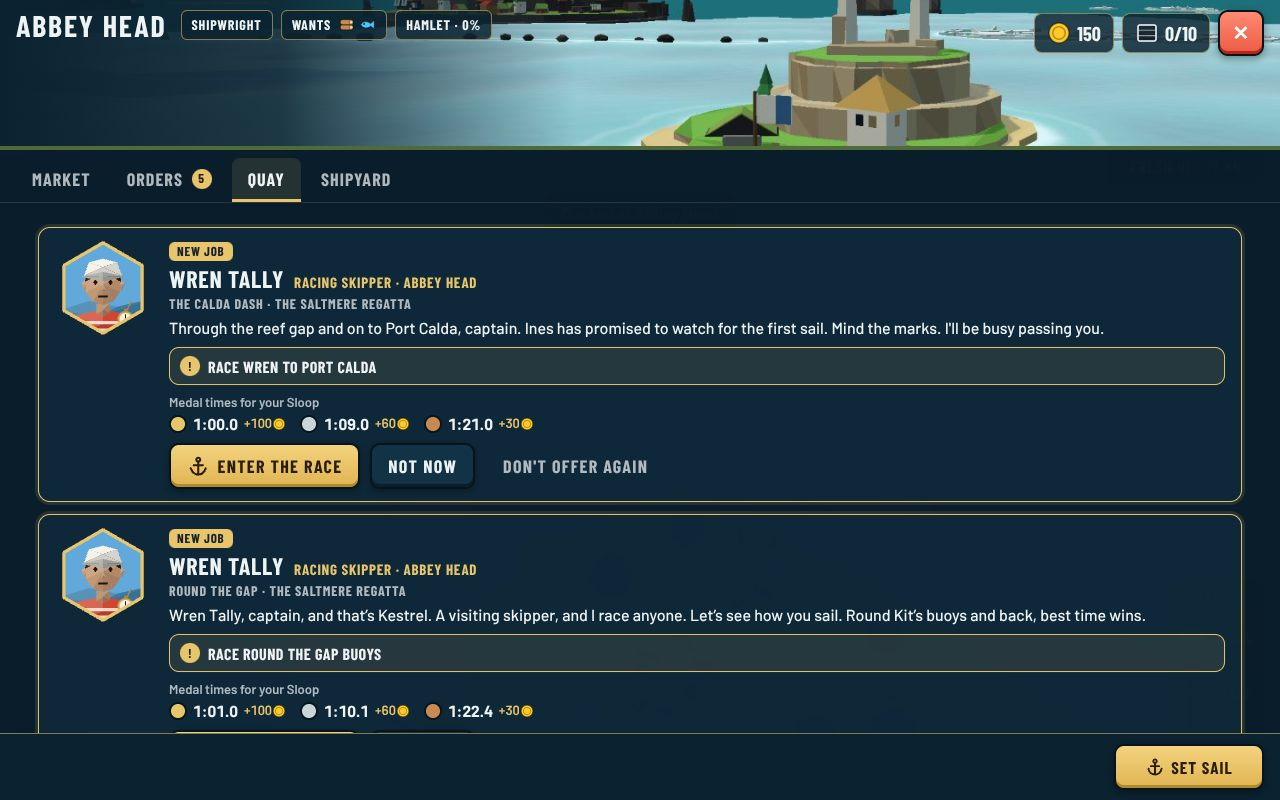
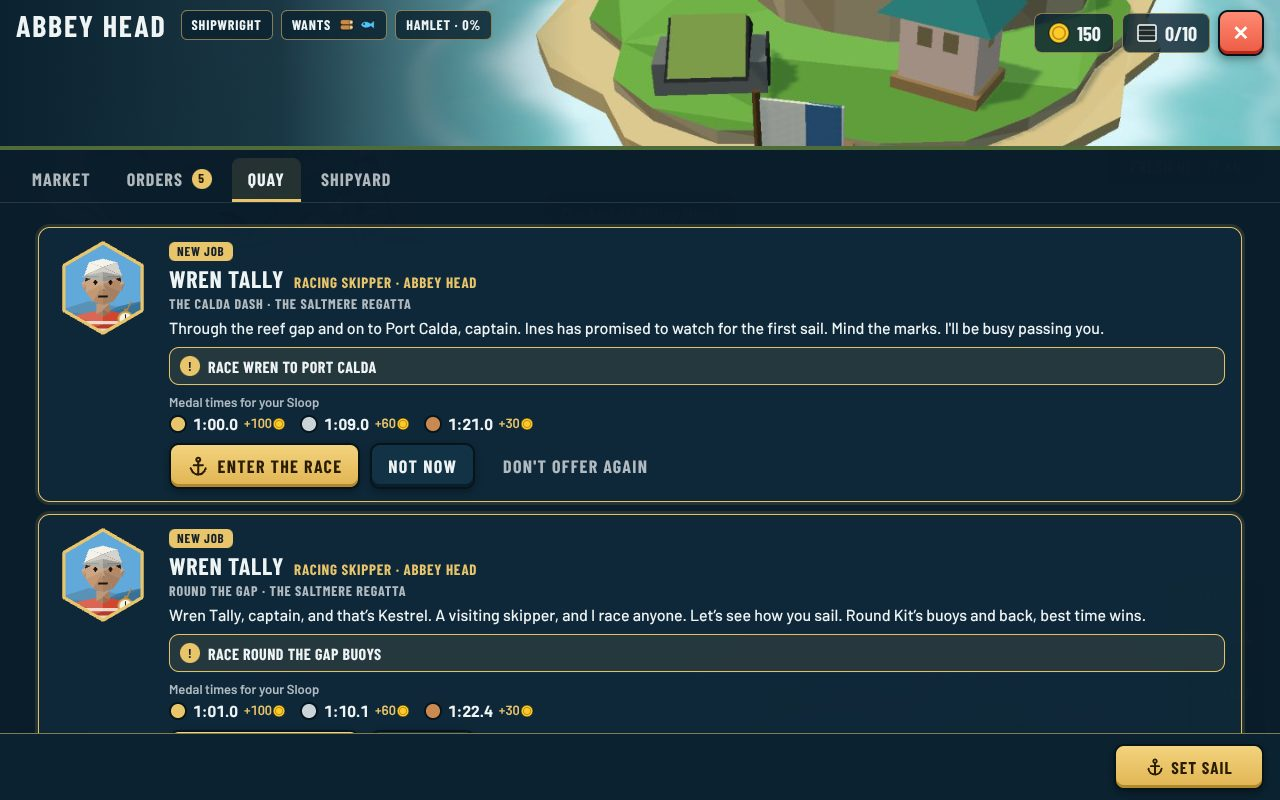
Aim Abbey Head's header at the club, turquoise café, new shots (#312)
Claude-Session: https://claude.ai/code/session_013jvdBu9jva21378Cw1Fffw

Changed region(s): [[0.25, 0.0, 1.0, 0.1875]]

diff --git a/tests/island-files.test.ts b/tests/island-files.test.ts
@@ -130,7 +130,7 @@ const GOLDEN: Record<string, string[]> = {
   saltmere: ['305:845e93d7', '504:fd0b5a46', '732:81a5bb40', '911:998fb521'],
   'south-cay': ['211:7e88ade9', '321:5698534c', '512:8751e27e', '688:65031d05'],
   westholm: ['216:10f65f4e', '436:3820301b', '727:13838172', '881:769cc3db'],
-  'abbey-head': ['47:e43df2ce', '75:3e126ec8', '94:eeb270', '125:a452f429'],
+  'abbey-head': ['47:4081cdca', '75:10334758', '94:f726ad58', '125:f5eb5721'],
   'bell-rock': ['13:149f2ca0', '13:149f2ca0', '13:149f2ca0', '13:149f2ca0'],
   'greyback-ridge': ['121:d8b1afe4', '121:d8b1afe4', '121:d8b1afe4', '121:d8b1afe4'],
   'gull-hook': ['130:ca8ed3fd', '130:ca8ed3fd', '130:ca8ed3fd', '130:ca8ed3fd'],
